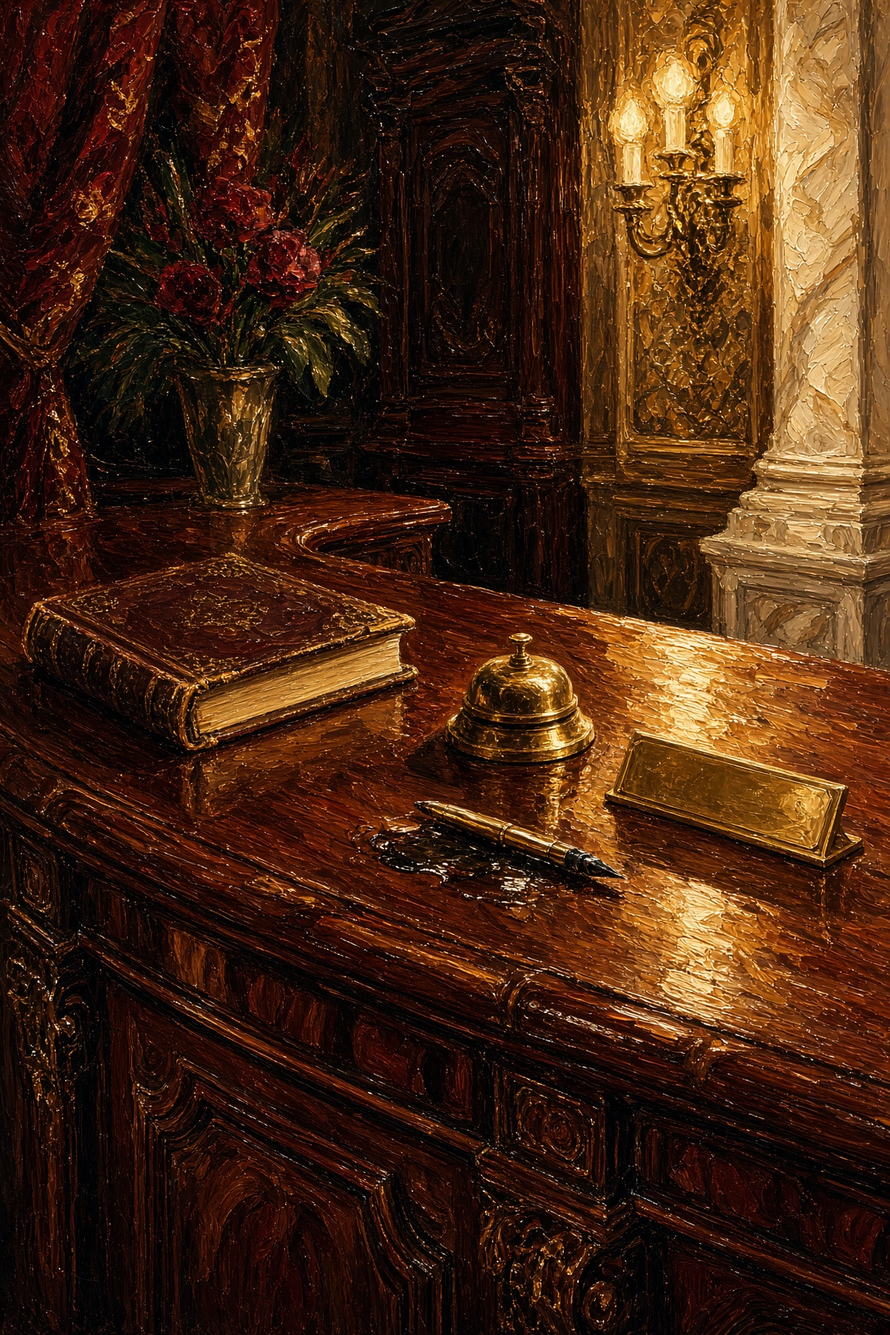
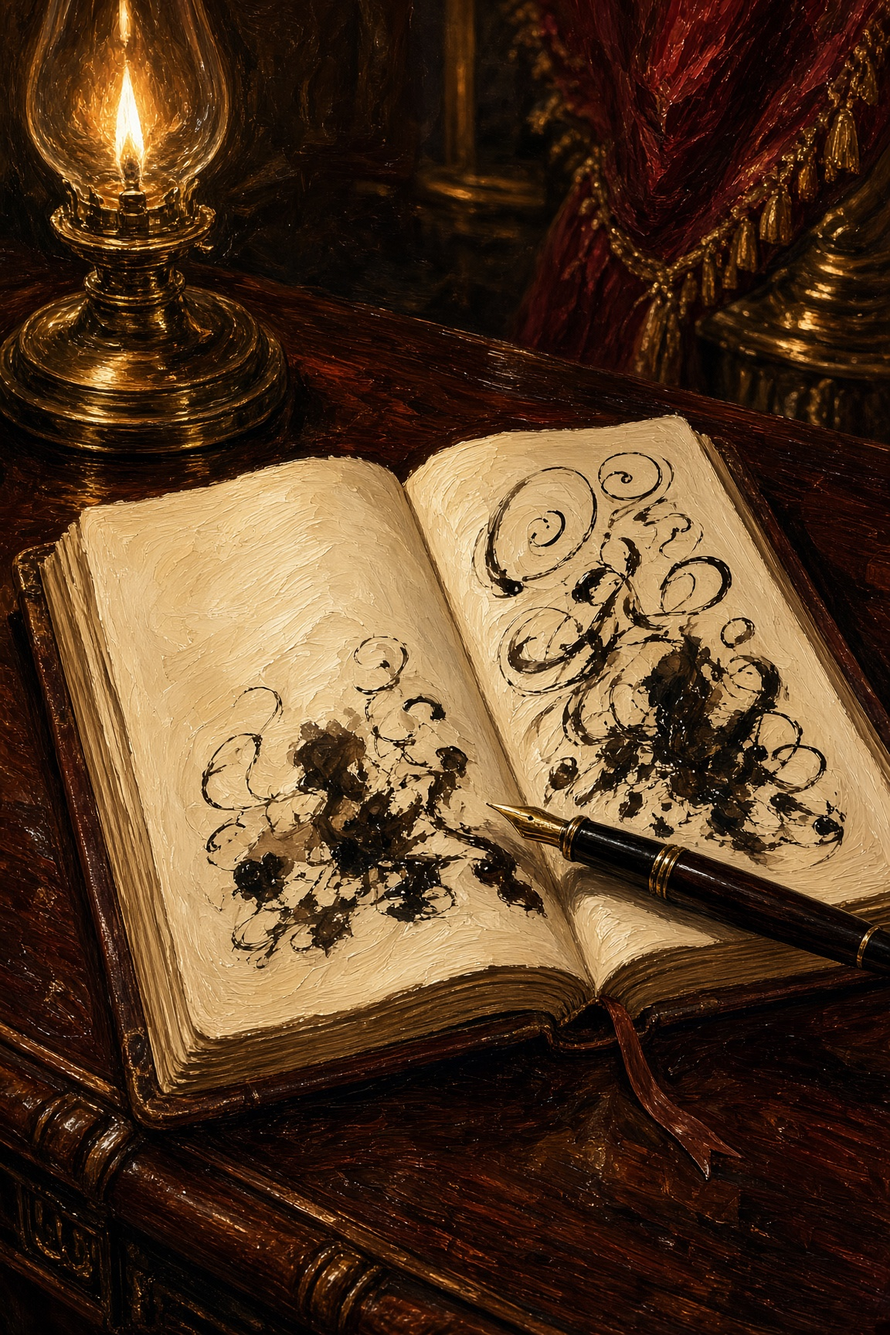
Arc 1 redteam: Stayover is the wraith, stew on every kitchen path, sandbox Jack, matching art

diff --git a/hotel/game.js b/hotel/game.js
@@ -239,7 +239,7 @@ She was still talking. Rulekeeper. Ione. Stayover in the basement. I was not, at
   add({
     id: "d_hall_stop",
     location: "Corridor",
-    art: "/art/corridor.jpg",
+    art: "/art/trudie-hall.jpg",
     portrait: "/art/trudie.jpg",
     speaker: "jack",
     text: (s) => `"Where are we going? Which hotel is this? Why do you know my name?"
@@ -251,15 +251,15 @@ I did not know how it was. I knew the floral wallpaper and the damp smell${s.fla
   });
   add({
     id: "d_ask_rk",
-    location: "Corridor",
-    art: "/art/trudie-hall.jpg",
+    location: "Lobby",
+    art: "/art/lobby.jpg",
     portrait: "/art/trudie.jpg",
     speaker: "jack",
-    text: `"The Rulekeeper," I said, because it had sounded like a job title and I have always been a fool for job titles.
+    text: `"The Rulekeeper," I said, because it had sounded like a job title, and I have always been a mug for job titles.
 
 "Second floor, clipboard, face like a cancelled booking. Don't take the stairs in the dark, he gets all official." She squeezed my wrist, delighted I'd asked. "You'll meet him. Everyone does."
 
-Then we turned a corner and the lobby opened up. Pastel. Dirty brass gone gold where hands land. A leather register. And the carpet near the far wall, bubbling like mold in fast-forward.`,
+Then we turned a corner and the lobby of the hotel proper opened up. More of those pastel walls. Dirty brass gone gold where hands actually land. A leather register sitting open. And the carpet near the far wall, bubbling, properly fizzing, small dark patches spreading outwards like mold in fast-forward.`,
     choices: () => lobbyAct({
       journal: 1,
       addRule: "Don't take the stairs in the dark. The Rulekeeper gets official."
@@ -267,8 +267,8 @@ Then we turned a corner and the lobby opened up. Pastel. Dirty brass gone gold w
   });
   add({
     id: "d_ask_ione",
-    location: "Corridor",
-    art: "/art/trudie-hall.jpg",
+    location: "Lobby",
+    art: "/art/lobby.jpg",
     portrait: "/art/trudie.jpg",
     speaker: "jack",
     text: `"Ione," I said. "Silk tea."
@@ -277,7 +277,7 @@ Then we turned a corner and the lobby opened up. Pastel. Dirty brass gone gold w
 
 I had not, as far as I knew, always asked about anyone.
 
-Then the lobby. Pastel. Brass. A register I didn't get to read. Carpet fizzing like it had opinions.`,
+Then the lobby opened whether I was ready or not, pastel and brass and a register I didn't get to read, and the carpet fizzing like it had opinions.`,
     choices: () => lobbyAct({
       journal: 1,
       addRule: "Ione has five arms. She patches tears. Stay out of her way."
@@ -285,15 +285,15 @@ Then the lobby. Pastel. Brass. A register I didn't get to read. Carpet fizzing l
   });
   add({
     id: "d_ask_stay",
-    location: "Corridor",
-    art: "/art/corridor.jpg",
+    location: "Lobby",
+    art: "/art/lobby.jpg",
     portrait: "/art/trudie.jpg",
     speaker: "jack",
     text: `"The Stayover," I said. "In the basement."
 
-Her grin went a bit tight, which on her is like watching water decide to be a wall. "Not on today's list, slowpoke. Don't go down. I mean it. I always mean it and you never listen."
+Her grin went a bit tight. On her that looks like she's trying to remember how faces work. "Not on today's list, slowpoke. Don't go down. I mean it. I always mean it and you never listen."
 
-We turned into the lobby anyway. Bubbling carpet. Open register. Trudie still had my wrist.`,
+We turned into the lobby anyway. The carpet was bubbling. The register was open. She still had my wrist.`,
     choices: () => lobbyAct({
       journal: 1,
       addRule: "The basement is not on the schedule right now."
@@ -301,39 +301,39 @@ We turned into the lobby anyway. Bubbling carpet. Open register. Trudie still ha
   });
   add({
     id: "d_look_ripple",
-    location: "Corridor",
-    art: "/art/trudie-hall.jpg",
+    location: "Lobby",
+    art: "/art/lobby.jpg",
     portrait: "/art/trudie.jpg",
     speaker: "jack",
     text: `"You're doing a thing," I said. "With the light. Like you aren't entirely\u2026 here."
 
 "Rude. I'm extremely here." She bounced on her heels and the ripples ran the length of her, which did not help my argument. "Slime, Jack. We've had this talk. You always go pink when we have this talk."
 
-Then the lobby, and I was still pink, and the carpet was still boiling.`,
+Then we were in the lobby and I was still pink, and the carpet was still boiling, which I reckon is not how you want to start a Tuesday.`,
     choices: lobbyAct
   });
   add({
     id: "d_look_slow",
-    location: "Corridor",
-    art: "/art/trudie-hall.jpg",
+    location: "Lobby",
+    art: "/art/lobby.jpg",
     portrait: "/art/trudie.jpg",
     speaker: "jack",
     text: `"Could we," I said, "not run."
 
-She did not not-run. She did a little skip that made the maid skirt a matter of faith. "Brig's going to spank you. I want a good seat. Come on."
+She did not slow down. She did a little skip that made the maid skirt a lost cause. "Brig's going to spank you. I want a good seat. Come on."
 
-The lobby opened whether I was ready or not. Register. Brass. Carpet fizzing. A growl already warming up in the kitchen.`,
+The lobby opened whether I was ready or not, register and brass and carpet fizzing, and a growl already warming up in the kitchen.`,
     choices: lobbyAct
   });
   add({
     id: "d_look_stare",
-    location: "Corridor",
-    art: "/art/trudie-hall.jpg",
+    location: "Lobby",
+    art: "/art/lobby.jpg",
     portrait: "/art/trudie.jpg",
     speaker: "jack",
-    text: `I didn't say a word. I watched. I am not proud. The half-second of leftover jiggle, the ripples, the crooked tag, the whole stupid beautiful mess of her, and then we were in the lobby and I had learned nothing except that I am, as previously advertised, a man.
+    text: `I didn't say a word. I watched. I am not proud. The leftover jiggle, the ripples, the crooked tag, the whole stupid beautiful mess of her. Then we were in the lobby and I had learned nothing except that I am, as previously advertised, still me.
 
-Carpet bubbling. Register open. Kitchen growling.`,
+The carpet was bubbling. The register was open. The kitchen was growling.`,
     choices: lobbyAct
   });
   add({
@@ -356,7 +356,8 @@ Trudie kept tugging me forward. "You handle the east wing, I'll finish the lobby
   add({
     id: "d_lobby_carpet",
     location: "Lobby",
-    art: "/art/lobby.jpg",
+    art: "/art/carpet.jpg",
+    portrait: "/art/brig.jpg",
     speaker: "jack",
     text: `The fizz had a smell under the lemon soap, sweet in a way that made my fillings ache, which I reckon is not how carpet is meant to smell. Trudie patted it like a dog as we passed and did not slow down.
 
@@ -367,14 +368,17 @@ Then a growl rolled out of the kitchen, and the door slammed open, and there wer
   });
   add({
     id: "d_lobby_desk",
-    location: "Lobby",
-    art: "/art/desk.jpg",
+    location: "Kitchen",
+    art: "/art/brig-kitchen.jpg",
+    portrait: "/art/brig.jpg",
     speaker: "jack",
     text: `The register was open. Names that flickered if you looked too long. I didn't get a proper look. She didn't let me.
 
 Then a growl rolled out of the kitchen, and the door slammed open, and there were ears, and teeth, and a tail, and a wooden spoon pointed at my chest like a warrant.
 
-"You. Late again! What's your excuse this time, Causey?"`,
+"You. Late again! What's your excuse this time, Causey?"
+
+What the actual fucking fuckery fuck? Was I still asleep?`,
     choices: kitchenAct
   });
   add({
@@ -429,23 +433,25 @@ I did the stove anyway. She shoved the unchipped bowl at me and I ate, because t
   add({
     id: "d_brig_stare",
     location: "Kitchen",
-    art: "/art/brig-kitchen.jpg",
+    art: "/art/brig-stove.jpg",
     portrait: "/art/brig.jpg",
     speaker: "jack",
     text: `"I\u2026 just woke up?" Her ears flattened. "Woken up. Right. That's just perfect." Those ears, and that tail, and the teeth, and the flames around her flaring higher than physics allowed. This wasn't a costume.
+
+Trudie dragged me to the oven anyway. I ate. The unchipped bowl. "You say that every few days," Brig said. "Then you go back to fixing things like nothing happened."
 
 "Good enough. Get out of my kitchen and go earn your fucking salary."`,
     choices: kitchenOut
   });
   add({
     id: "d_brig_days",
-    location: "Kitchen",
-    art: "/art/brig-stove.jpg",
-    portrait: "/art/brig.jpg",
+    location: "Lobby",
+    art: "/art/trudie-mop.jpg",
+    portrait: "/art/trudie.jpg",
     speaker: "jack",
     text: `"Every few days," I said. "You said I say that every few days."
 
-Her ears went flat, the careful way. "Did I. Eat your stew, Causey." She didn't explain. I didn't make her. I have been married, I reckon I know when a woman has decided a sentence is finished.
+Her ears went flat, the careful way. "Did I. Eat your stew, Causey." She didn't explain. I didn't make her. I have been told to drop a subject before, I reckon I know the shape of it.
 
 I came back out into the lobby with the taste of it still in my mouth. The carpet near the far wall was still bubbling, and Trudie was pointing at it with a rag like I might have forgotten.
 
@@ -457,9 +463,9 @@ I came back out into the lobby with the taste of it still in my mouth. The carpe
   });
   add({
     id: "d_brig_thanks",
-    location: "Kitchen",
-    art: "/art/brig-stove.jpg",
-    portrait: "/art/brig.jpg",
+    location: "Lobby",
+    art: "/art/trudie-mop.jpg",
+    portrait: "/art/trudie.jpg",
     speaker: "jack",
     text: `"Thanks," I said, because the bowl had been the one without the chip and I am not entirely made of pride.
 

diff --git a/hotel/index.html b/hotel/index.html
@@ -185,7 +185,7 @@
       </div>
     </div>
 
-    <script src="./game.js?v=arc1d"></script>
+    <script src="./game.js?v=arc1e"></script>
     <script>
       const ART = ".";
       const KEY = "sans-nuit-arc1";
